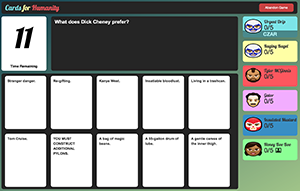
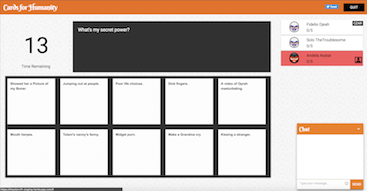
fix(bug fix): fix max player modal
- Modal would now show in materialize
- Game screenshot has been replaced to showcase new game screen
- Reduce modal width

[fixes #152077656]

diff --git a/public/views/index.html b/public/views/index.html
@@ -20,13 +20,13 @@
                       </span>
                     </a>
                     <li>
-                      <a onclick="scrollWin(0, 750)">How to play</a>
+                      <a onclick="scrollWin(0, 1000)">How to play</a>
                     </li>
                     <li>
-                      <a onclick="scrollWin(0, 1600)">About us</a>
+                      <a onclick="scrollWin(0, 1800)">About us</a>
                     </li>
                     <li>
-                      <a onclick="scrollWin(0, 2300)">Charity</a>
+                      <a onclick="scrollWin(0, 2400)">Charity</a>
                     </li>
                     <span ng-show="showOptions">
                       <li>
@@ -37,7 +37,8 @@
                       </li>
                     </span>
                     <span ng-hide="showOptions">
-                        <li><a href="#!/dashboard">Dashboard</a></li> 
+                        <li><a href="#!/dashboard">Dashboard</a></li>
+                        <li><a href="#!/contribute" title="contibute questions and answers">Contribute</a></li>
                       <li>
                         <a ng-click="signout()">Sign Out</a>
                       </li>
@@ -65,7 +66,8 @@
                     </li>
                   </span>
                   <span ng-hide="showOptions">
-                      <li><a href="#!/dashboard">Dashboard</a></li> 
+                      <li><a href="#!/dashboard">Dashboard</a></li>
+                      <li><a href="#!/contribute" title="contibute questions and answers">Contribute</a></li>
                     <li>
                       <a ng-click="signout()">Sign Out</a>
                     </li>
@@ -335,8 +337,8 @@
           stopPropagation: false // Stops event propagation
         }
         );
-        function scrollWin(x, y) {
-          window.scrollBy(x, y);
-        }
       });
+      function scrollWin(x, y) {
+        window.scrollBy(x, y);
+      }
     </script>

diff --git a/public/js/services/game.js b/public/js/services/game.js
@@ -223,7 +223,7 @@ angular.module('mean.system')
       popupModal
         .find('.modal-body')
         .text(popupText);
-      popupModal.modal('show');
+      popupModal.modal('open');
     });
 
     game.joinGame = (mode, room, createPrivate) => {

diff --git a/public/css/style.css b/public/css/style.css
@@ -871,3 +871,6 @@ h5.shuffle {
 .region-modal {
     min-width: 15% !important;
 }
+#popupModal{
+    min-width: 10% !important;
+}
